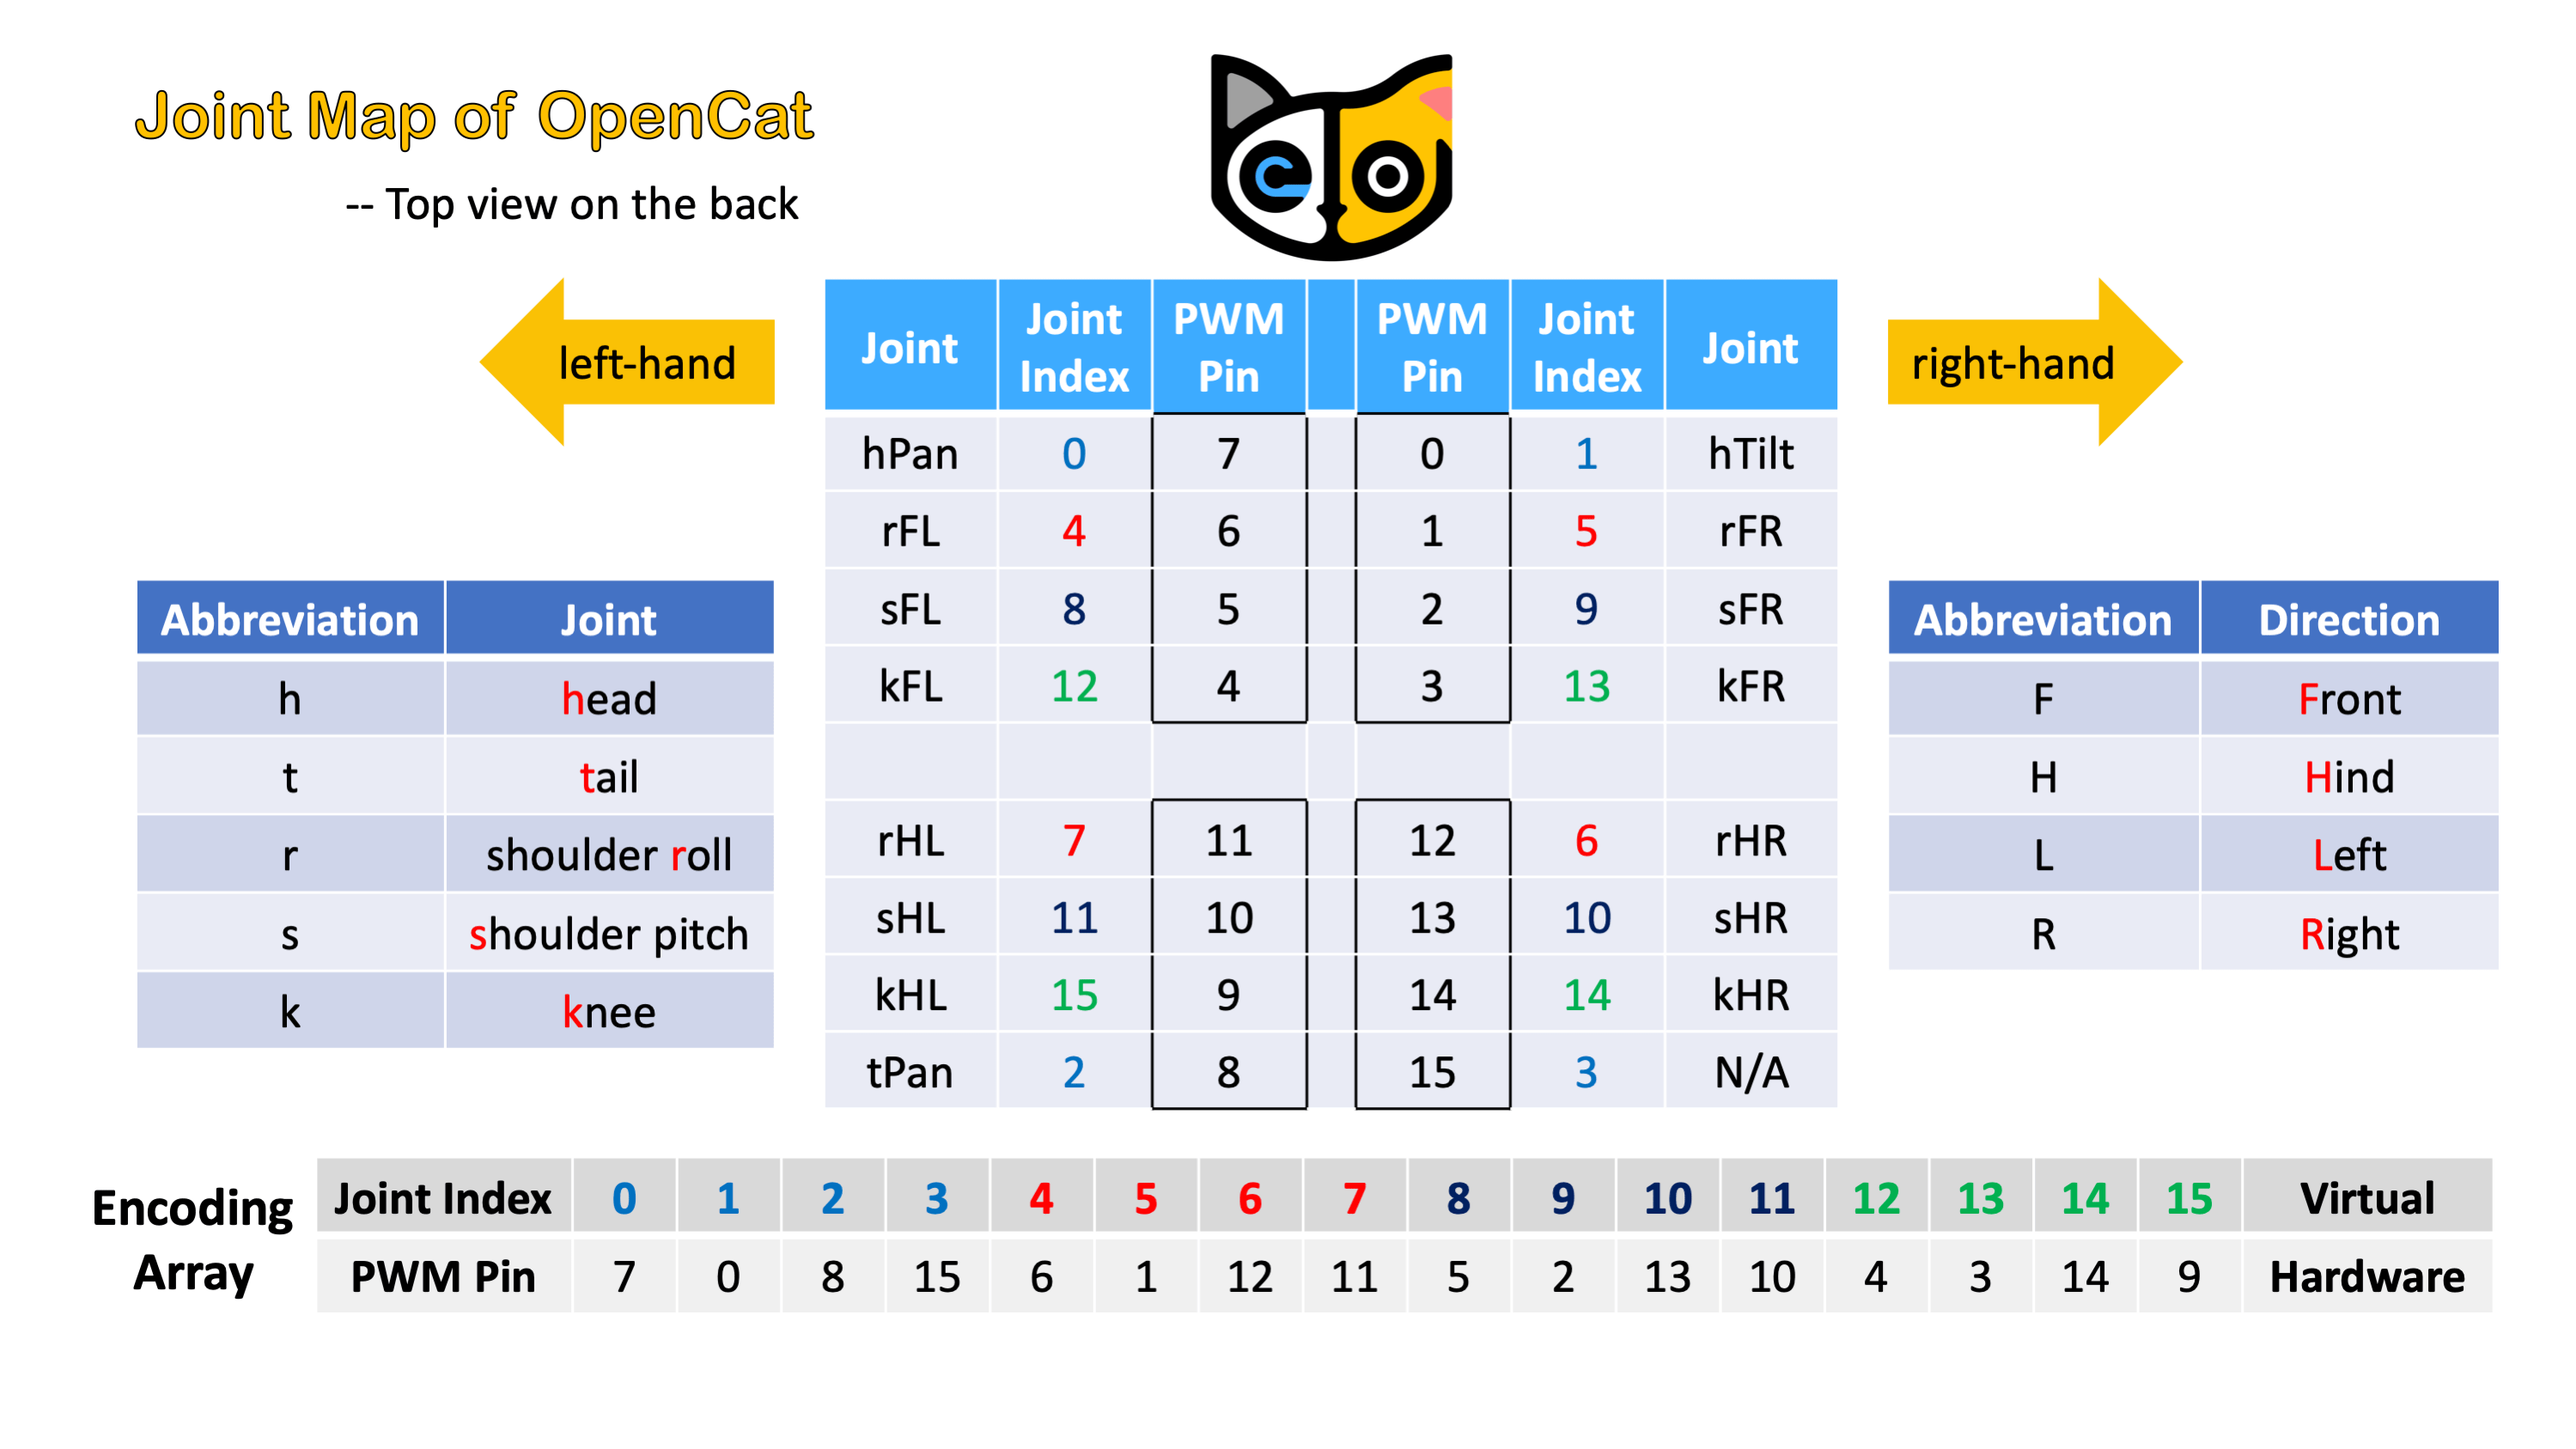
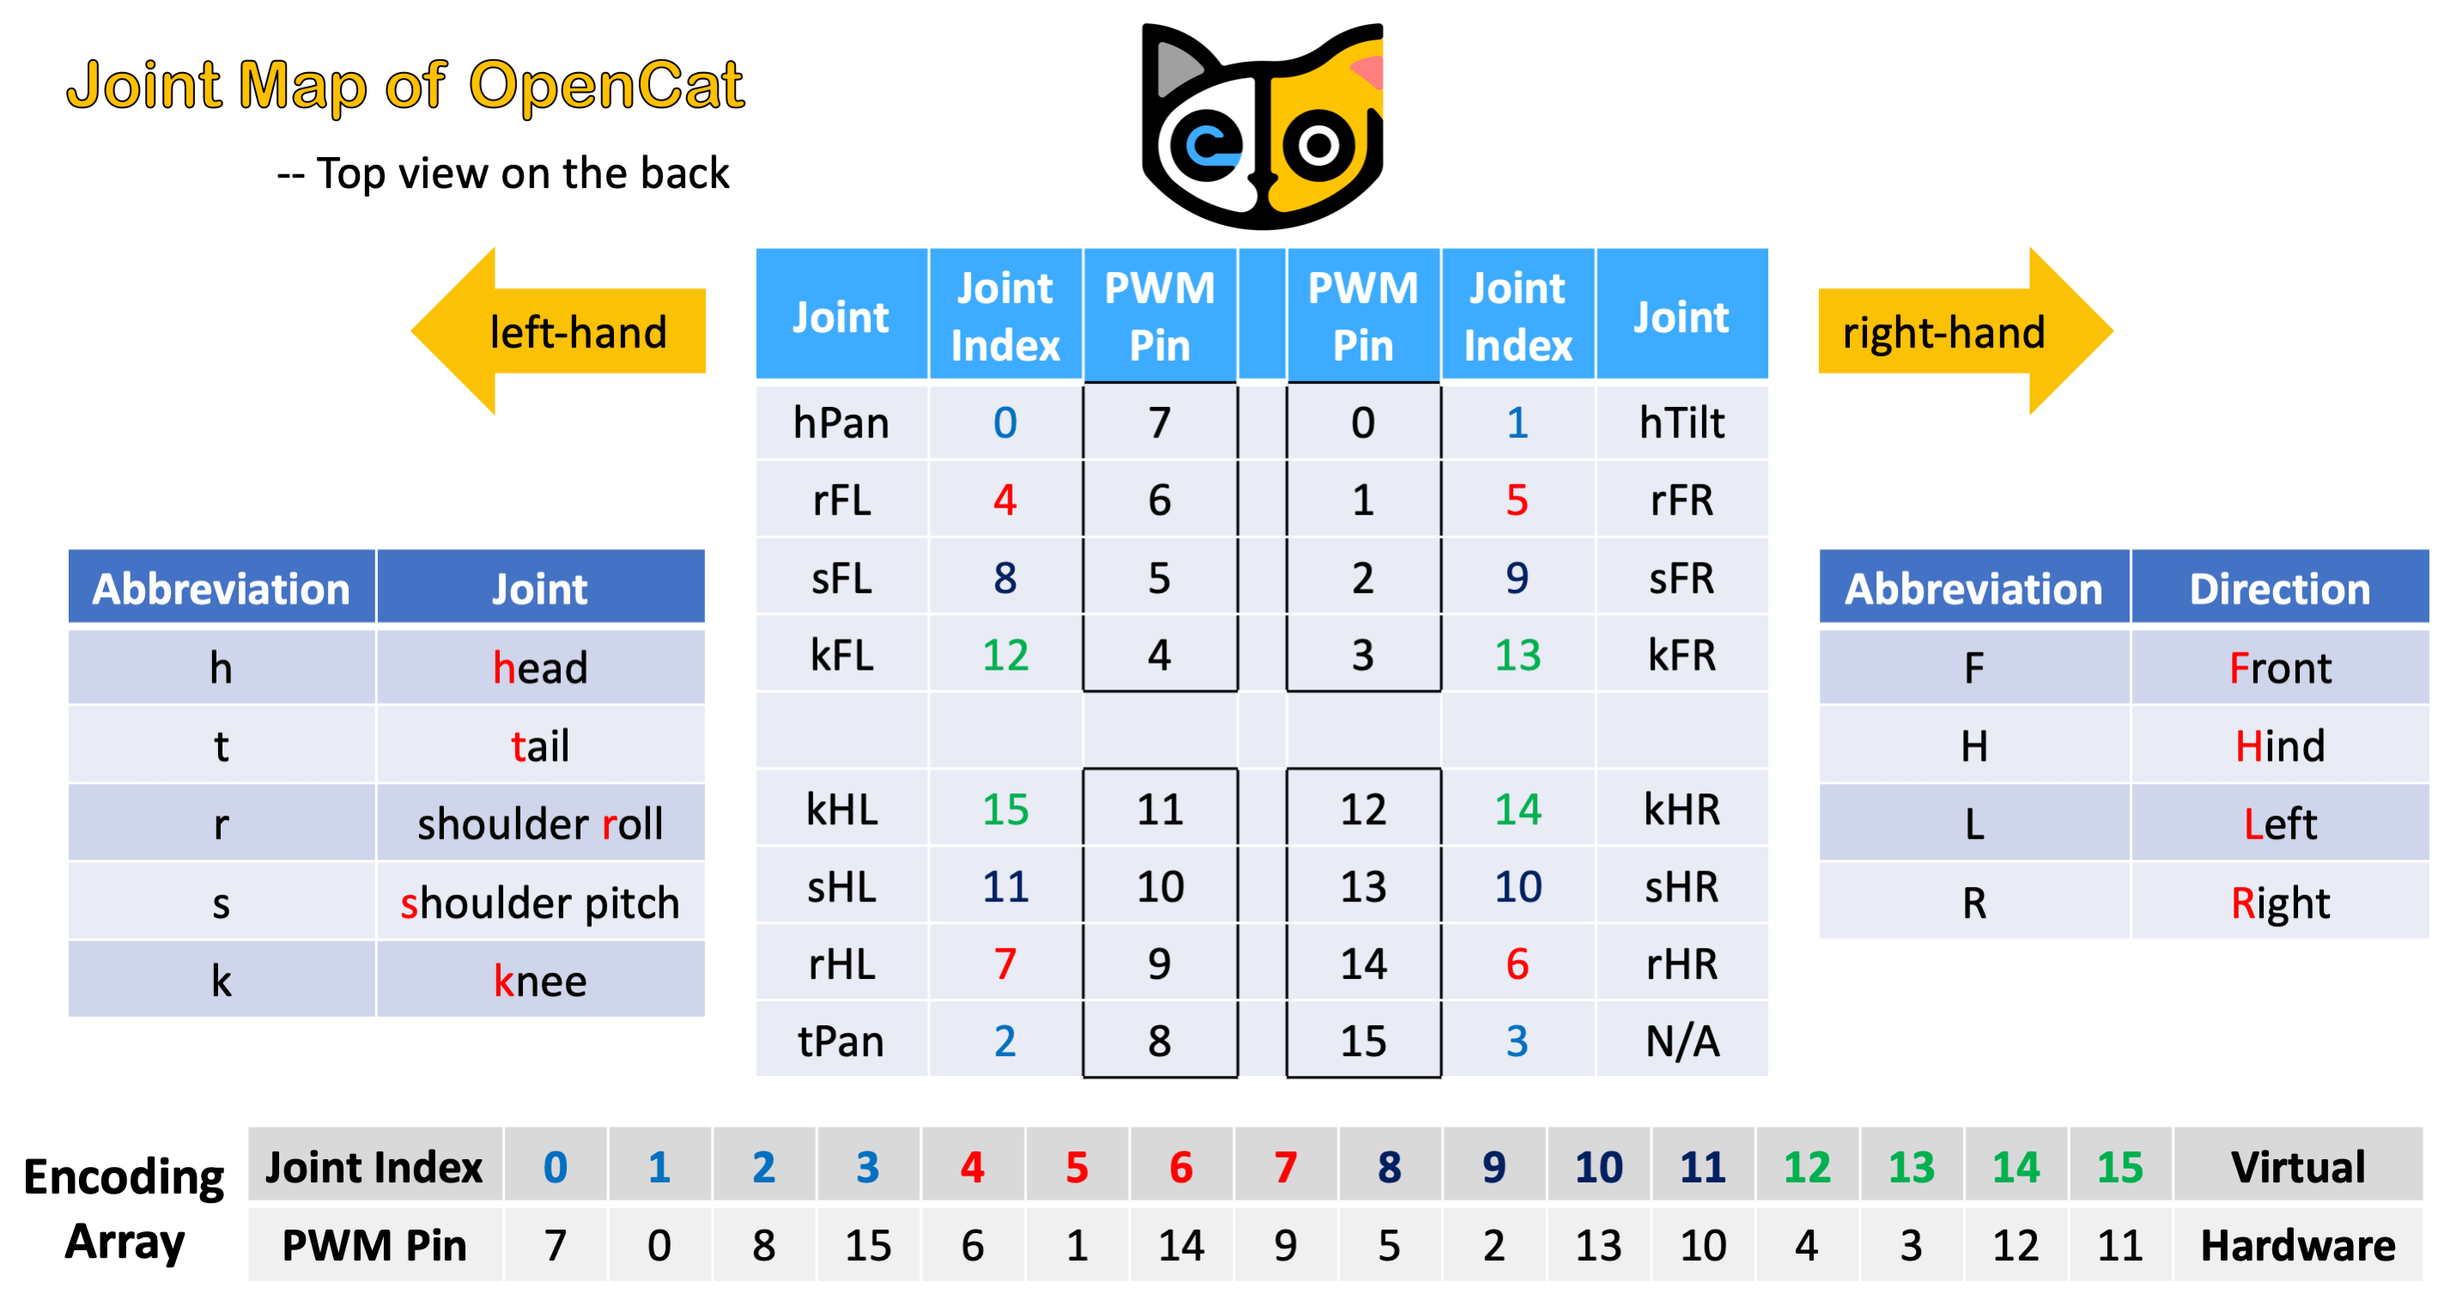
swapped back shoulder and knee pin map

Changed region(s): [[0.0, 0.0, 0.9982, 0.9888], [0.0312, 0.0309, 0.312, 0.1545]]

diff --git a/Nybble/WriteInstinct/Instinct.h b/Nybble/WriteInstinct/Instinct.h
@@ -157,75 +157,90 @@ const char bkR[] PROGMEM = {
  33, 31,-58,-70,  5, -1, -2,  4,
 };
 const char cr[] PROGMEM = { 
-21, 0, -5,
+26, 0, -5,
  35, 37,-46,-53,-23,-32, -3, 12,
- 42, 26,-41,-60,-25,-27, -4, 12,
- 48, 16,-36,-66,-26,-21, -6, 11,
- 54,  6,-31,-72,-27,-14, -8,  9,
+ 40, 28,-42,-59,-24,-28, -4, 12,
+ 45, 20,-38,-64,-25,-24, -5, 12,
+ 51, 12,-34,-69,-26,-19, -7, 10,
+ 56,  4,-30,-72,-27,-13, -9,  8,
  60, -5,-26,-71,-26,  1,-10, -4,
- 65,  3,-20,-64,-26, -3,-15, -8,
- 75,  9,-16,-61,-29, -8,-12, -6,
- 69, 15,-27,-57,-36,-12,  1, -5,
+ 64,  1,-21,-64,-26, -1,-14, -9,
+ 68,  6,-17,-62,-24, -5,-17, -6,
+ 74, 11,-23,-59,-34,-10, -2, -5,
+ 68, 16,-29,-57,-36,-13,  3, -4,
  60, 21,-36,-54,-37,-16,  6, -3,
- 50, 29,-43,-50,-35,-20,  9, -2,
- 39, 35,-51,-46,-32,-23, 11, -3,
- 29, 42,-58,-41,-29,-25, 12, -4,
+ 52, 27,-42,-51,-36,-20,  9, -3,
+ 44, 32,-48,-47,-34,-22, 11, -3,
+ 35, 37,-54,-44,-31,-23, 12, -3,
+ 26, 42,-59,-40,-27,-25, 12, -4,
  19, 48,-64,-36,-23,-26, 11, -6,
-  9, 54,-70,-31,-16,-27,  9, -8,
- -1, 60,-74,-26, -6,-26,  4,-10,
-  1, 65,-64,-20, -1,-26, -9,-15,
+ 11, 53,-69,-32,-17,-27, 10, -7,
+  3, 58,-73,-28,-11,-26,  8,-10,
+ -4, 62,-69,-23,  2,-26, -7,-13,
+  2, 66,-64,-19, -2,-26, -8,-15,
   7, 75,-61,-16, -6,-29, -7,-12,
- 13, 69,-59,-27,-10,-36, -4,  1,
- 20, 60,-55,-36,-15,-37, -3,  6,
- 27, 50,-51,-43,-19,-35, -3,  9,
+ 12, 71,-59,-25,-10,-35, -5,  0,
+ 17, 64,-56,-32,-13,-36, -4,  4,
+ 22, 56,-54,-39,-16,-36, -2,  7,
+ 28, 48,-50,-45,-19,-35, -3,  9,
  33, 39,-47,-51,-22,-32, -3, 11,
 };
 const char crL[] PROGMEM = { 
-21, 0, -5,
+26, 0, -5,
  35, 37,-46,-50,-25,-32, -3,  6,
- 37, 26,-41,-52,-26,-27, -4,  6,
- 40, 16,-36,-54,-26,-21, -6,  7,
- 42,  6,-31,-57,-27,-14, -8,  6,
+ 37, 28,-42,-52,-26,-28, -4,  6,
+ 39, 20,-38,-53,-26,-24, -5,  6,
+ 41, 12,-34,-55,-26,-19, -7,  7,
+ 43,  4,-30,-57,-27,-13, -9,  6,
  45, -5,-26,-58,-28,  1,-10,  3,
- 47,  3,-20,-55,-28, -3,-15,  1,
- 51,  9,-16,-54,-31, -8,-12,  1,
- 48, 15,-27,-52,-32,-12,  1,  2,
+ 47,  1,-21,-55,-28, -1,-14,  1,
+ 48,  6,-17,-54,-28, -5,-17,  1,
+ 50, 11,-23,-53,-32,-10, -2,  2,
+ 48, 16,-29,-52,-32,-13,  3,  2,
  45, 21,-36,-51,-31,-16,  6,  2,
- 42, 29,-43,-49,-30,-20,  9,  1,
- 38, 35,-51,-48,-29,-23, 11,  1,
- 35, 42,-58,-47,-27,-25, 12,  1,
+ 42, 27,-42,-50,-30,-20,  9,  1,
+ 39, 32,-48,-48,-30,-22, 11,  1,
+ 37, 37,-54,-47,-28,-23, 12,  1,
+ 34, 42,-59,-46,-27,-25, 12,  1,
  31, 48,-64,-44,-26,-26, 11,  0,
- 28, 54,-70,-43,-24,-27,  9,  0,
- 24, 60,-74,-42,-22,-26,  4,  0,
- 24, 65,-64,-40,-19,-26, -9, -1,
+ 29, 53,-69,-43,-25,-27, 10,  0,
+ 26, 58,-73,-42,-23,-26,  8,  0,
+ 22, 62,-69,-41,-19,-26, -7,  0,
+ 24, 66,-64,-40,-19,-26, -8, -1,
  26, 75,-61,-38,-20,-29, -7,  1,
- 28, 69,-59,-42,-22,-36, -4,  4,
- 30, 60,-55,-44,-23,-37, -3,  4,
- 32, 50,-51,-47,-23,-35, -3,  5,
+ 27, 71,-59,-41,-21,-35, -5,  4,
+ 29, 64,-56,-43,-22,-36, -4,  4,
+ 31, 56,-54,-46,-23,-36, -2,  5,
+ 33, 48,-50,-47,-24,-35, -3,  5,
  35, 39,-47,-49,-24,-32, -3,  5,
 };
 const char crR[] PROGMEM = { 
-21, 0, -5,
+26, 0, -5,
  35, 37,-48,-53,-23,-28,  1, 12,
- 42, 33,-47,-60,-25,-27,  1, 12,
- 48, 30,-44,-66,-26,-26,  0, 11,
- 54, 26,-43,-72,-27,-24,  0,  9,
+ 40, 34,-47,-59,-24,-27,  1, 12,
+ 45, 31,-46,-64,-25,-26,  1, 12,
+ 51, 29,-44,-69,-26,-25,  0, 10,
+ 56, 26,-43,-72,-27,-23,  0,  8,
  60, 22,-42,-71,-26,-20,  0, -4,
- 65, 24,-40,-64,-26,-20, -1, -8,
- 75, 26,-38,-61,-29,-21,  1, -6,
- 69, 29,-42,-57,-36,-22,  4, -5,
+ 64, 24,-40,-64,-26,-19,  0, -9,
+ 68, 26,-38,-62,-24,-20, -1, -6,
+ 74, 27,-40,-59,-34,-21,  3, -5,
+ 68, 29,-42,-57,-36,-22,  4, -4,
  60, 31,-44,-54,-37,-23,  4, -3,
- 50, 33,-47,-50,-35,-24,  5, -2,
- 39, 35,-49,-46,-32,-25,  5, -3,
- 29, 37,-51,-41,-29,-26,  6, -4,
+ 52, 33,-47,-51,-36,-24,  5, -3,
+ 44, 35,-48,-47,-34,-24,  5, -3,
+ 35, 36,-50,-44,-31,-25,  6, -3,
+ 26, 38,-52,-40,-27,-26,  6, -4,
  19, 40,-54,-36,-23,-26,  6, -6,
-  9, 42,-56,-31,-16,-27,  6, -8,
- -1, 45,-58,-26, -6,-28,  5,-10,
-  1, 47,-55,-20, -1,-28,  1,-15,
+ 11, 42,-55,-32,-17,-27,  7, -7,
+  3, 44,-57,-28,-11,-27,  6,-10,
+ -4, 45,-57,-23,  2,-28,  2,-13,
+  2, 47,-55,-19, -2,-29,  1,-15,
   7, 51,-54,-16, -6,-31,  1,-12,
- 13, 48,-53,-27,-10,-32,  2,  1,
- 20, 45,-52,-36,-15,-31,  2,  6,
- 27, 42,-50,-43,-19,-30,  1,  9,
+ 12, 49,-53,-25,-10,-32,  2,  0,
+ 17, 47,-52,-32,-13,-31,  2,  4,
+ 22, 44,-51,-39,-16,-30,  2,  7,
+ 28, 41,-50,-45,-19,-30,  1,  9,
  33, 38,-48,-51,-22,-29,  1, 11,
 };
 const char ly[] PROGMEM = { 
@@ -309,95 +324,112 @@ const char stair[] PROGMEM = {
  43, 90,-44,-32,  6,-26, -6, 26,
 };
 const char tr[] PROGMEM = { 
-25, 0, 0,
+30, 0, 0,
  35, 38,-41,-46, 11,  2,-10, -1,
- 40, 20,-36,-59, 11, 11,-11, -6,
- 44, -1,-31,-65, 11, 27,-12,-18,
- 48,-15,-25,-65, 12, 44,-15,-31,
- 52,-20,-19,-59, 14, 57,-18,-40,
+ 39, 23,-37,-57, 11,  9,-11, -5,
+ 43,  6,-33,-64, 11, 21,-12,-13,
+ 46,-12,-28,-66, 11, 39,-13,-27,
+ 50,-17,-23,-63, 12, 49,-16,-34,
+ 52,-20,-18,-59, 14, 57,-19,-40,
  55,-14,-13,-58, 17, 49,-22,-36,
- 57, -5, -6,-58, 21, 39,-28,-29,
- 58,  2,  1,-58, 26, 31,-35,-23,
- 60,  9,  7,-56, 28, 25,-40,-19,
- 65, 16,  3,-53, 21, 20,-31,-15,
+ 57, -7, -7,-59, 20, 41,-27,-30,
+ 58,  0, -1,-58, 24, 33,-32,-25,
+ 58,  6,  5,-57, 29, 28,-39,-21,
+ 61, 12,  7,-55, 27, 23,-38,-17,
+ 65, 17,  2,-53, 19, 20,-29,-15,
  64, 22, -8,-50, 12, 16,-20,-13,
- 55, 28,-27,-46,  3, 13, -6,-11,
- 40, 34,-44,-42,  2, 12, -1,-10,
- 23, 39,-57,-37,  9, 11, -5,-11,
-  3, 44,-65,-32, 24, 11,-15,-12,
+ 57, 27,-24,-47,  4, 14, -8,-11,
+ 46, 32,-39,-44,  1, 12, -2,-10,
+ 32, 36,-51,-40,  4, 11, -2,-10,
+ 16, 40,-60,-36, 13, 11, -7,-11,
+ -1, 44,-65,-31, 27, 11,-18,-12,
 -13, 48,-65,-26, 41, 12,-29,-14,
--20, 51,-60,-20, 55, 13,-38,-17,
--16, 54,-58,-14, 52, 16,-37,-21,
- -7, 57,-59, -7, 41, 20,-30,-27,
-  1, 58,-58,  0, 32, 25,-24,-34,
+-19, 51,-61,-21, 53, 13,-37,-17,
+-18, 53,-58,-16, 55, 15,-39,-20,
+-11, 56,-59,-10, 45, 18,-34,-24,
+ -4, 57,-58, -5, 38, 22,-28,-29,
+  2, 58,-58,  1, 31, 26,-23,-35,
   8, 59,-56,  7, 26, 29,-19,-40,
- 15, 64,-54,  4, 21, 22,-16,-32,
- 21, 64,-51, -4, 17, 15,-13,-23,
- 27, 57,-47,-24, 14,  4,-11, -8,
- 33, 43,-43,-42, 12,  2,-10, -2,
+ 14, 63,-54,  6, 22, 24,-16,-35,
+ 19, 65,-52,  1, 18, 18,-14,-27,
+ 24, 61,-49,-15, 15,  8,-12,-14,
+ 29, 53,-46,-30, 13,  2,-11, -5,
+ 34, 40,-42,-44, 12,  2,-10, -1,
 };
 const char trL[] PROGMEM = { 
-21, 0, 0,
+25, 0, 0,
  33, 37,-40,-45, 10, -1,-13, -3,
- 35, 20,-35,-49, 10,  6,-14, -4,
- 37, -1,-30,-54,  9, 24,-15, -5,
- 39,-13,-24,-54,  9, 43,-17, -8,
- 40,-11,-18,-51,  8, 48,-21,-11,
+ 35, 22,-36,-49, 10,  5,-14, -3,
+ 36,  6,-31,-52,  9, 17,-15, -4,
+ 38, -7,-27,-54,  9, 31,-16, -6,
+ 39,-14,-22,-53,  9, 47,-19, -9,
+ 40,-10,-17,-51,  8, 45,-21,-10,
  42, -3,-11,-50,  8, 38,-26,-10,
- 44,  4, -5,-49,  8, 31,-31, -9,
- 46, 11,  1,-48,  8, 25,-34, -9,
- 47, 18, -8,-46,  4, 20,-17, -9,
- 43, 24,-25,-45,  3, 17, -5, -9,
+ 43,  3, -6,-49,  8, 32,-30, -9,
+ 44,  9,  1,-48, 10, 27,-37, -9,
+ 47, 15, -3,-47,  6, 22,-25, -9,
+ 46, 20,-12,-45,  3, 19,-13, -9,
+ 42, 25,-28,-44,  3, 16, -3, -9,
  38, 30,-43,-43,  4, 14,  2, -9,
- 32, 35,-57,-41,  6, 14,  1, -9,
- 27, 39,-67,-40,  8, 13, -6, -9,
- 22, 44,-68,-38, 11, 14,-19, -9,
- 20, 48,-59,-36, 16, 15,-33, -9,
+ 33, 34,-55,-41,  5, 14,  2, -9,
+ 29, 38,-64,-40,  7, 13, -3, -9,
+ 24, 42,-69,-39, 10, 13,-13, -9,
+ 20, 45,-65,-37, 14, 14,-25, -9,
+ 20, 48,-57,-36, 16, 15,-33, -9,
  22, 51,-57,-35, 15, 17,-29, -9,
- 24, 54,-56,-33, 14, 20,-23,-10,
- 26, 55,-54,-30, 13, 26,-19,-12,
- 28, 64,-51,-32, 12, 13,-16, -7,
- 30, 61,-48,-36, 11,  2,-14, -4,
+ 24, 53,-56,-33, 14, 20,-24,-10,
+ 25, 55,-54,-31, 13, 23,-20,-10,
+ 27, 60,-53,-31, 12, 21,-17, -9,
+ 29, 65,-50,-33, 12,  8,-15, -6,
+ 30, 60,-47,-37, 11,  1,-14, -4,
  32, 49,-44,-42, 10, -3,-13, -3,
 };
 const char trR[] PROGMEM = { 
-21, 0, 0,
+25, 0, 0,
  31, 36,-42,-49, 15,  5, -9,  3,
- 36, 30,-41,-62, 14,  6, -9,  0,
- 41, 24,-39,-69, 13,  9, -9,-12,
- 45, 20,-37,-64, 14, 14, -9,-27,
- 49, 20,-36,-57, 16, 16, -9,-32,
+ 35, 31,-41,-61, 14,  6, -9,  1,
+ 39, 26,-40,-67, 13,  8, -9, -7,
+ 43, 22,-38,-68, 14, 11, -9,-18,
+ 47, 20,-37,-61, 14, 15, -9,-31,
+ 49, 21,-36,-57, 16, 15, -9,-31,
  52, 22,-34,-56, 18, 15,-10,-26,
- 54, 25,-32,-55, 22, 13,-10,-21,
- 58, 26,-30,-53, 23, 13,-10,-18,
- 65, 29,-33,-50,  8, 12, -6,-15,
- 57, 30,-38,-46,  0, 11, -4,-13,
+ 54, 25,-32,-55, 21, 13,-10,-22,
+ 55, 26,-30,-54, 26, 13,-12,-19,
+ 63, 27,-31,-51, 15, 12, -8,-16,
+ 64, 30,-34,-49,  5, 11, -5,-14,
+ 55, 31,-39,-45, -1, 11, -4,-13,
  44, 32,-43,-42, -3, 10, -3,-13,
- 27, 34,-48,-37,  3, 10, -3,-14,
-  8, 36,-52,-31, 15,  9, -4,-15,
- -8, 38,-54,-26, 33,  9, -6,-17,
--14, 39,-52,-20, 49,  9,-11,-20,
+ 30, 34,-47,-37,  2, 10, -3,-14,
+ 15, 35,-51,-33, 10,  9, -4,-14,
+ -2, 37,-54,-29, 25,  9, -5,-16,
+-11, 39,-54,-24, 40,  9, -8,-17,
+-13, 40,-51,-19, 49,  8,-11,-20,
  -6, 41,-50,-14, 42,  8,-10,-24,
-  2, 43,-49, -7, 33,  8,-10,-29,
-  9, 44,-48,  1, 27, 10, -9,-37,
- 15, 47,-46, -4, 22,  5, -9,-23,
- 21, 45,-45,-19, 18,  3, -9, -8,
+  0, 43,-49, -8, 35,  8,-10,-28,
+  6, 44,-49, -2, 29,  8, -9,-33,
+ 12, 46,-47,  0, 24,  7, -9,-32,
+ 17, 47,-46, -8, 20,  4, -9,-17,
+ 23, 44,-45,-22, 17,  3, -9, -6,
  27, 39,-43,-37, 15,  4, -9,  1,
 };
 const char vt[] PROGMEM = { 
-13, 0, 0,
+17, 0, 0,
  51, 39,-57,-43,-18,  7, 19, -7,
+ 42, 39,-47,-43,  1,  7,  0, -7,
  39, 39,-43,-43,  7,  7, -7, -7,
  39, 39,-43,-43,  7,  7, -7, -7,
  39, 42,-43,-47,  7,  0, -7,  0,
- 39, 54,-43,-60,  7,-25, -7, 25,
- 39, 61,-43,-69,  7,-41, -7, 41,
+ 39, 51,-43,-57,  7,-19, -7, 19,
+ 39, 59,-43,-67,  7,-36, -7, 36,
+ 39, 59,-43,-66,  7,-35, -7, 36,
  39, 51,-43,-57,  7,-18, -7, 19,
+ 39, 42,-43,-47,  7,  1, -7,  0,
  39, 39,-43,-43,  7,  7, -7, -7,
  39, 39,-43,-43,  7,  7, -7, -7,
  40, 39,-45,-43,  3,  7, -3, -7,
- 53, 39,-59,-43,-22,  7, 22, -7,
- 61, 39,-69,-43,-41,  7, 41, -7,
+ 50, 39,-56,-43,-16,  7, 16, -7,
+ 58, 39,-65,-43,-33,  7, 33, -7,
+ 60, 39,-68,-43,-38,  7, 38, -7,
  52, 39,-59,-43,-21,  7, 22, -7,
 };
 const char wkF[] PROGMEM = { 
@@ -627,6 +659,6 @@ const char zero[] PROGMEM = {
 	//while the newbilities on progmem are assigned to new addresses
   const char* progmemPointer[] = {stair, };
 #endif
-//the total byte of instincts is 4446
+//the total byte of instincts is 4702
 //the maximal array size is 436 bytes of stair. 
 //Make sure to leave enough memory for SRAM to work properly. Any single skill should be smaller than 400 bytes for safety.

diff --git a/Nybble/WriteInstinct/OpenCat.h b/Nybble/WriteInstinct/OpenCat.h
@@ -144,9 +144,9 @@ void meow(int repeat = 1, int pause = 200, int startF = 50,  int endF = 200, int
 #define X_LEG
 
 byte pins[] = {7, 0, 8, 15,
-               6, 1, 12, 11,
+               6, 1, 14, 9,
                5, 2, 13, 10,
-               4, 3, 14, 9
+               4, 3, 12, 11
               };
 
 #else
